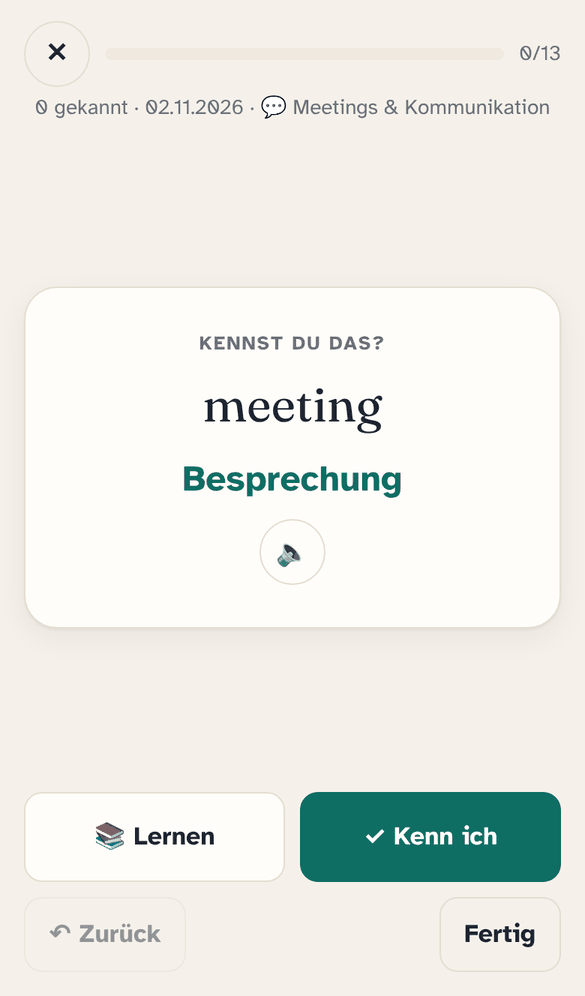
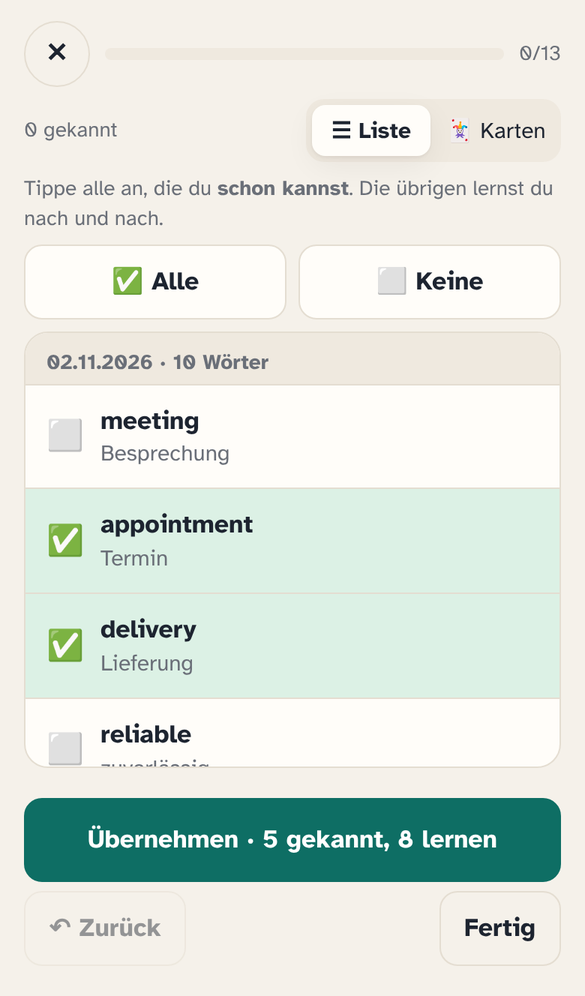
README: Screenshot Kenn ich schon? mit neuer Listenansicht (Demo-Daten)
Claude-Session: https://claude.ai/code/session_01NT1ALs94kcrP3oXjQENRP2

diff --git a/README.md b/README.md
@@ -92,7 +92,7 @@ Ein selbst gehosteter Vokabeltrainer fürs Handy, gemacht für Englischkurse: Vo
 <p>
   <img src="docs/screenshots/13-mehr.png" width="190" alt="Stimmen">
   <img src="docs/screenshots/10-claude.png" width="190" alt="Mit Claude üben">
-  <img src="docs/screenshots/11-kenn-ich-schon.png" width="190" alt="Kenn ich schon">
+  <img src="docs/screenshots/11-kenn-ich-schon.png" width="190" alt="Kenn ich schon – Liste nach Stunden">
 </p>
 
 - **KI-Stimme (Piper)** für jedes Wort, erzeugt auf deinem Server. 7 frei lizenzierte Stimmen zur Wahl (britisch/amerikanisch, weiblich/männlich) mit **Hörprobe**. Beim Üben bevorzugt *Lehrer* oder *KI* – der zweite Knopf spielt jeweils die andere Stimme.
